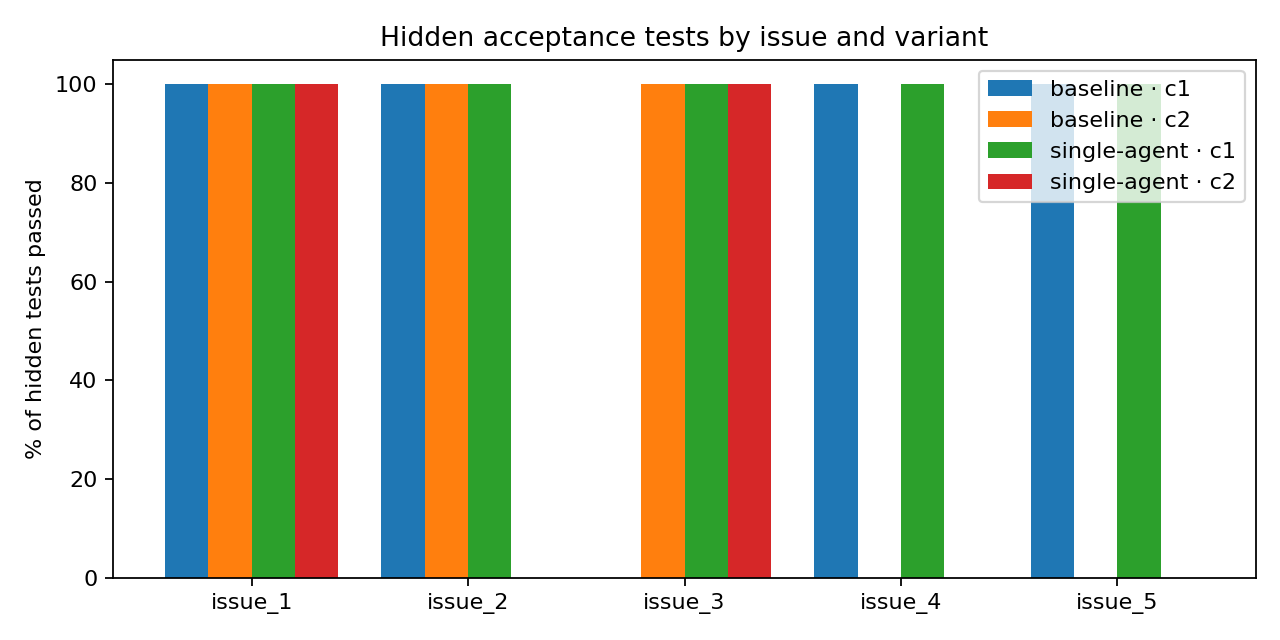
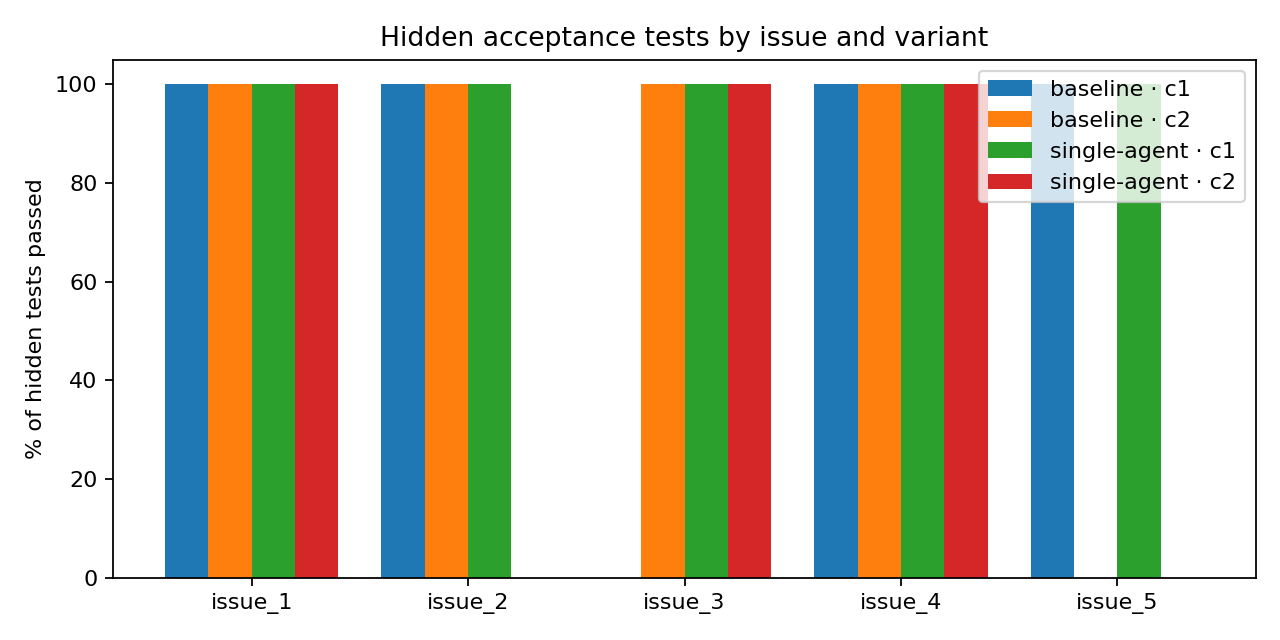
checkpoint issue 4 repeat results

Changed region(s): [[0.6562, 0.125, 0.7812, 0.9062]]

diff --git a/results/summary.md b/results/summary.md
@@ -2,7 +2,7 @@
 
 _Generated from real run artifacts by `collect_results.py`. Do not edit by hand._
 
-Runs: 76 (23 full, 53 review-only). Tokens: 19,279,253 total; estimated cost $0.00. 2 run(s) stopped by the model provider's daily quota are listed in runs.md but left out of every statistic below.
+Runs: 78 (25 full, 53 review-only). Tokens: 20,261,318 total; estimated cost $0.00. 2 run(s) stopped by the model provider's daily quota are listed in runs.md but left out of every statistic below.
 
 ## Stage pass rate (full runs on the five issues, round 0)
 
@@ -11,9 +11,9 @@ Share of runs that reached a stage and passed its check.
 | Variant | Runs | requirements | design | implementation | testing | release | review: approve |
 |---|---|---|---|---|---|---|---|
 | baseline · c1 | 5 | 4/5 (80%) | 4/4 (100%) | 4/4 (100%) | 4/4 (100%) | 4/4 (100%) | 4/4 (100%) |
-| baseline · c2 | 3 | 3/3 (100%) | 3/3 (100%) | 3/3 (100%) | 3/3 (100%) | 3/3 (100%) | 2/3 (67%) |
+| baseline · c2 | 4 | 4/4 (100%) | 4/4 (100%) | 4/4 (100%) | 4/4 (100%) | 4/4 (100%) | 3/4 (75%) |
 | single-agent · c1 | 5 | 5/5 (100%) | 5/5 (100%) | 5/5 (100%) | 5/5 (100%) | 5/5 (100%) | 4/5 (80%) |
-| single-agent · c2 | 3 | 2/3 (67%) | 2/2 (100%) | 2/2 (100%) | 2/2 (100%) | 2/2 (100%) | 2/2 (100%) |
+| single-agent · c2 | 4 | 3/4 (75%) | 3/3 (100%) | 3/3 (100%) | 3/3 (100%) | 3/3 (100%) | 3/3 (100%) |
 
 ## Decision experiments, side by side
 
@@ -21,15 +21,15 @@ Share of runs that reached a stage and passed its check.
 
 | Metric | baseline · c1 | baseline · c2 | single-agent · c1 | single-agent · c2 |
 |---|---|---|---|---|
-| Runs | 5 | 3 | 5 | 3 |
-| PR opened and CI green (release passed) | 4/5 (80%) | 3/3 (100%) | 5/5 (100%) | 2/3 (67%) |
-| Stopped before release | 1/5 (20%) | 0/3 (0%) | 0/5 (0%) | 1/3 (33%) |
-| Final review verdict: approve | 4/5 (80%) | 2/3 (67%) | 4/5 (80%) | 2/3 (67%) |
-| Mean review rounds | 0.80 | 1.00 | 1.00 | 0.67 |
-| Hidden tests passed (no PR counts as all failed) | 16/20 (80%) | 12/12 (100%) | 20/20 (100%) | 8/12 (67%) |
-| Runs passing every hidden test | 4/5 (80%) | 3/3 (100%) | 5/5 (100%) | 2/3 (67%) |
-| Mean failed stage checks per run | 2.20 | 3.00 | 2.60 | 2.00 |
-| Mean tokens per run | 456,700 | 770,524 | 1,001,233 | 607,878 |
+| Runs | 5 | 4 | 5 | 4 |
+| PR opened and CI green (release passed) | 4/5 (80%) | 4/4 (100%) | 5/5 (100%) | 3/4 (75%) |
+| Stopped before release | 1/5 (20%) | 0/4 (0%) | 0/5 (0%) | 1/4 (25%) |
+| Final review verdict: approve | 4/5 (80%) | 3/4 (75%) | 4/5 (80%) | 3/4 (75%) |
+| Mean review rounds | 0.80 | 1.00 | 1.00 | 0.75 |
+| Hidden tests passed (no PR counts as all failed) | 16/20 (80%) | 16/16 (100%) | 20/20 (100%) | 12/16 (75%) |
+| Runs passing every hidden test | 4/5 (80%) | 4/4 (100%) | 5/5 (100%) | 3/4 (75%) |
+| Mean failed stage checks per run | 2.20 | 2.75 | 2.60 | 1.75 |
+| Mean tokens per run | 456,700 | 656,267 | 1,001,233 | 623,051 |
 | Mean estimated cost per run (USD) | 0.00 | 0.00 | 0.00 | 0.00 |
 
 ### Independent reviewer on the dev seeded PRs (S1–S5)
@@ -78,6 +78,8 @@ Share of runs that reached a stage and passed its check.
 | issue_2 | single-agent · c2 | [44919386414](https://github.com/Ishaank1805/tinydb/actions/runs/44919386414) | 0/4 | no PR: stopped at requirements |
 | issue_3 | baseline · c2 | [44928155059](https://github.com/Ishaank1805/tinydb/actions/runs/44928155059) | 4/4 |  |
 | issue_3 | single-agent · c2 | [44928896498](https://github.com/Ishaank1805/tinydb/actions/runs/44928896498) | 4/4 |  |
+| issue_4 | baseline · c2 | [44929475399](https://github.com/Ishaank1805/tinydb/actions/runs/44929475399) | 4/4 |  |
+| issue_4 | single-agent · c2 | [44930091813](https://github.com/Ishaank1805/tinydb/actions/runs/44930091813) | 4/4 |  |
 
 ## Runs that stopped, and why
 
@@ -99,7 +101,7 @@ The hidden tests are ground truth the reviewer never saw.
 
 | Final verdict | All hidden tests pass | Some hidden test fails |
 |---|---|---|
-| approve | 12 (agreed) | 0 (missed a defect) |
+| approve | 14 (agreed) | 0 (missed a defect) |
 | request changes | 0 (stricter than the tests) | 0 (agreed) |
 
 ## Reviewer on the seeded PRs, every review
@@ -163,12 +165,12 @@ The hidden tests are ground truth the reviewer never saw.
 
 | Role | Model calls | Uncached input | Output | Cache read | Cache write |
 |---|---|---|---|---|---|
-| generalist | 178 | 718,139 | 43,648 | 5,305,266 | 0 |
-| implementer | 113 | 406,205 | 8,616 | 653,782 | 0 |
-| judge | 28 | 16,318 | 3,173 | 0 | 0 |
-| planner | 260 | 1,195,129 | 57,731 | 2,690,718 | 0 |
-| reviewer | 1,082 | 3,876,772 | 133,163 | 3,657,672 | 0 |
-| test_author | 100 | 340,945 | 11,073 | 160,903 | 0 |
+| generalist | 197 | 797,430 | 47,205 | 5,811,850 | 0 |
+| implementer | 121 | 436,214 | 9,066 | 675,998 | 0 |
+| judge | 30 | 17,425 | 3,359 | 0 | 0 |
+| planner | 275 | 1,257,726 | 60,823 | 2,829,007 | 0 |
+| reviewer | 1,106 | 3,953,262 | 135,466 | 3,701,657 | 0 |
+| test_author | 105 | 351,970 | 11,957 | 160,903 | 0 |
 
 ## Prompt-injection check (red-team issue)
 

diff --git a/results/runs.md b/results/runs.md
@@ -80,6 +80,8 @@ Every AutoSE run in https://github.com/Ishaank1805/tinydb, generated by `experim
 | [44919969207](https://github.com/Ishaank1805/tinydb/actions/runs/44919969207) | c2 | full | baseline | issue_3 #4 | [#34](https://github.com/Ishaank1805/tinydb/pull/34) | provider quota | [r1: error](https://github.com/Ishaank1805/tinydb/pull/34#pullrequestreview-6006367706) | [CI 1](https://github.com/Ishaank1805/tinydb/actions/runs/44920811765) | - | 460,176 |
 | [44928155059](https://github.com/Ishaank1805/tinydb/actions/runs/44928155059) | c2 | full | baseline | issue_3 #4 | [#34](https://github.com/Ishaank1805/tinydb/pull/34) | approved | [r1: approve](https://github.com/Ishaank1805/tinydb/pull/34#pullrequestreview-6006856668) | [CI 1](https://github.com/Ishaank1805/tinydb/actions/runs/44928620040) | 4/4 | 576,735 |
 | [44928896498](https://github.com/Ishaank1805/tinydb/actions/runs/44928896498) | c2 | full | single-agent | issue_3 #4 | [#17](https://github.com/Ishaank1805/tinydb/pull/17) | approved | [r1: approve](https://github.com/Ishaank1805/tinydb/pull/17#pullrequestreview-6006912832) | [CI 1](https://github.com/Ishaank1805/tinydb/actions/runs/44929218450) | 4/4 | 729,238 |
+| [44929475399](https://github.com/Ishaank1805/tinydb/actions/runs/44929475399) | c2 | full | baseline | issue_4 #5 | [#18](https://github.com/Ishaank1805/tinydb/pull/18) | approved | [r1: approve](https://github.com/Ishaank1805/tinydb/pull/18#pullrequestreview-6006955680) | [CI 1](https://github.com/Ishaank1805/tinydb/actions/runs/44929837012) | 4/4 | 313,495 |
+| [44930091813](https://github.com/Ishaank1805/tinydb/actions/runs/44930091813) | c2 | full | single-agent | issue_4 #5 | [#19](https://github.com/Ishaank1805/tinydb/pull/19) | approved | [r1: approve](https://github.com/Ishaank1805/tinydb/pull/19#pullrequestreview-6006984744) | [CI 1](https://github.com/Ishaank1805/tinydb/actions/runs/44930365723) | 4/4 | 668,570 |
 
 ## Setup and verification runs
 
